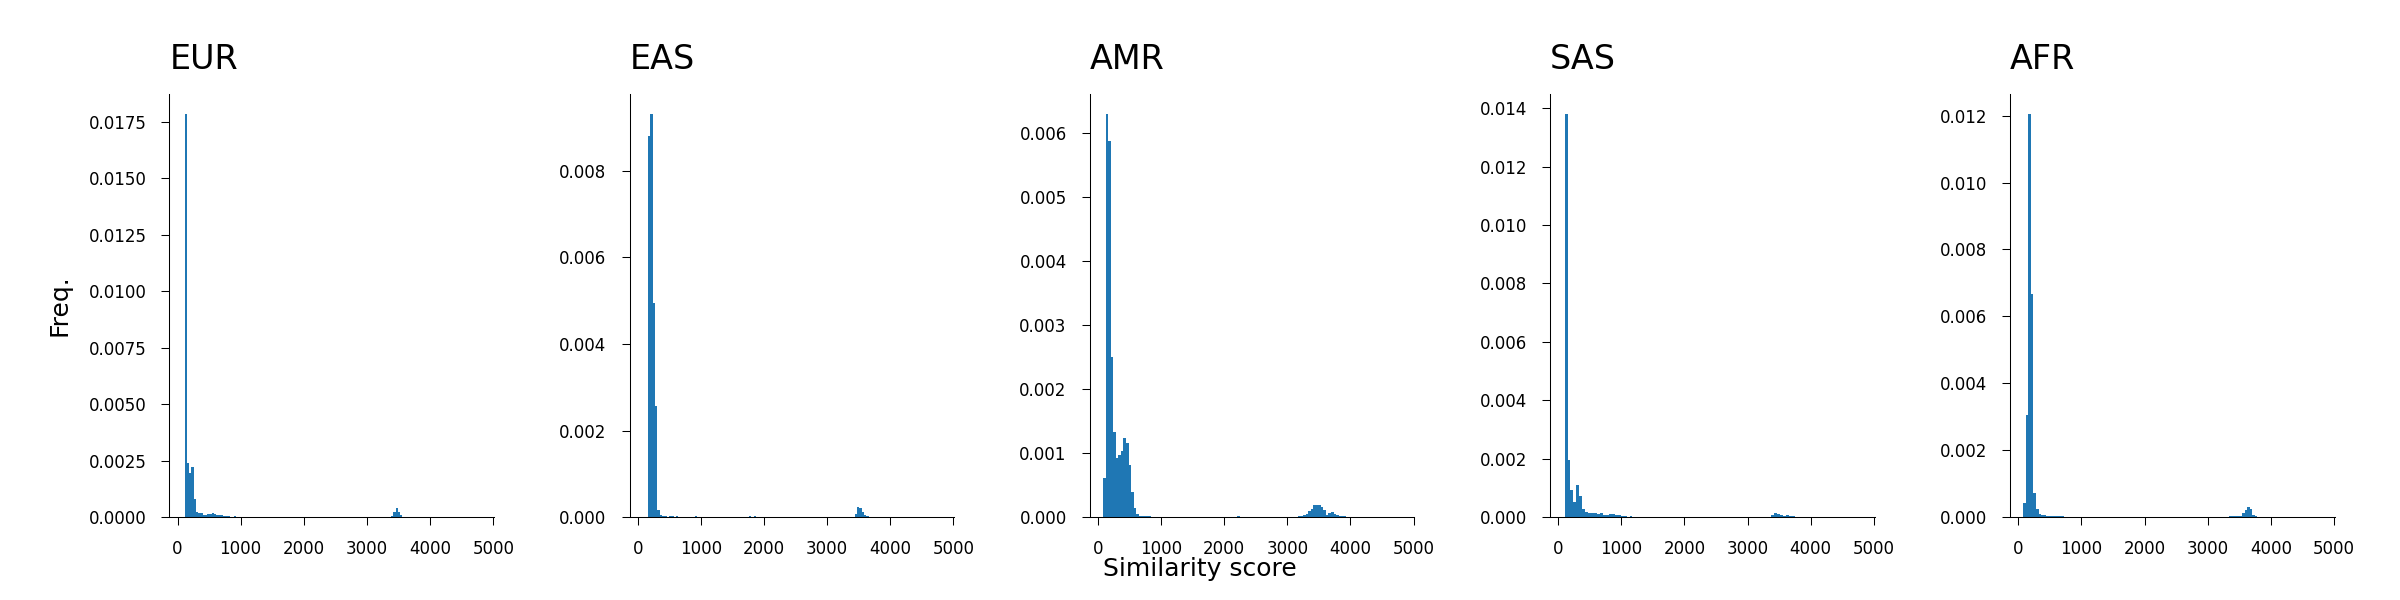
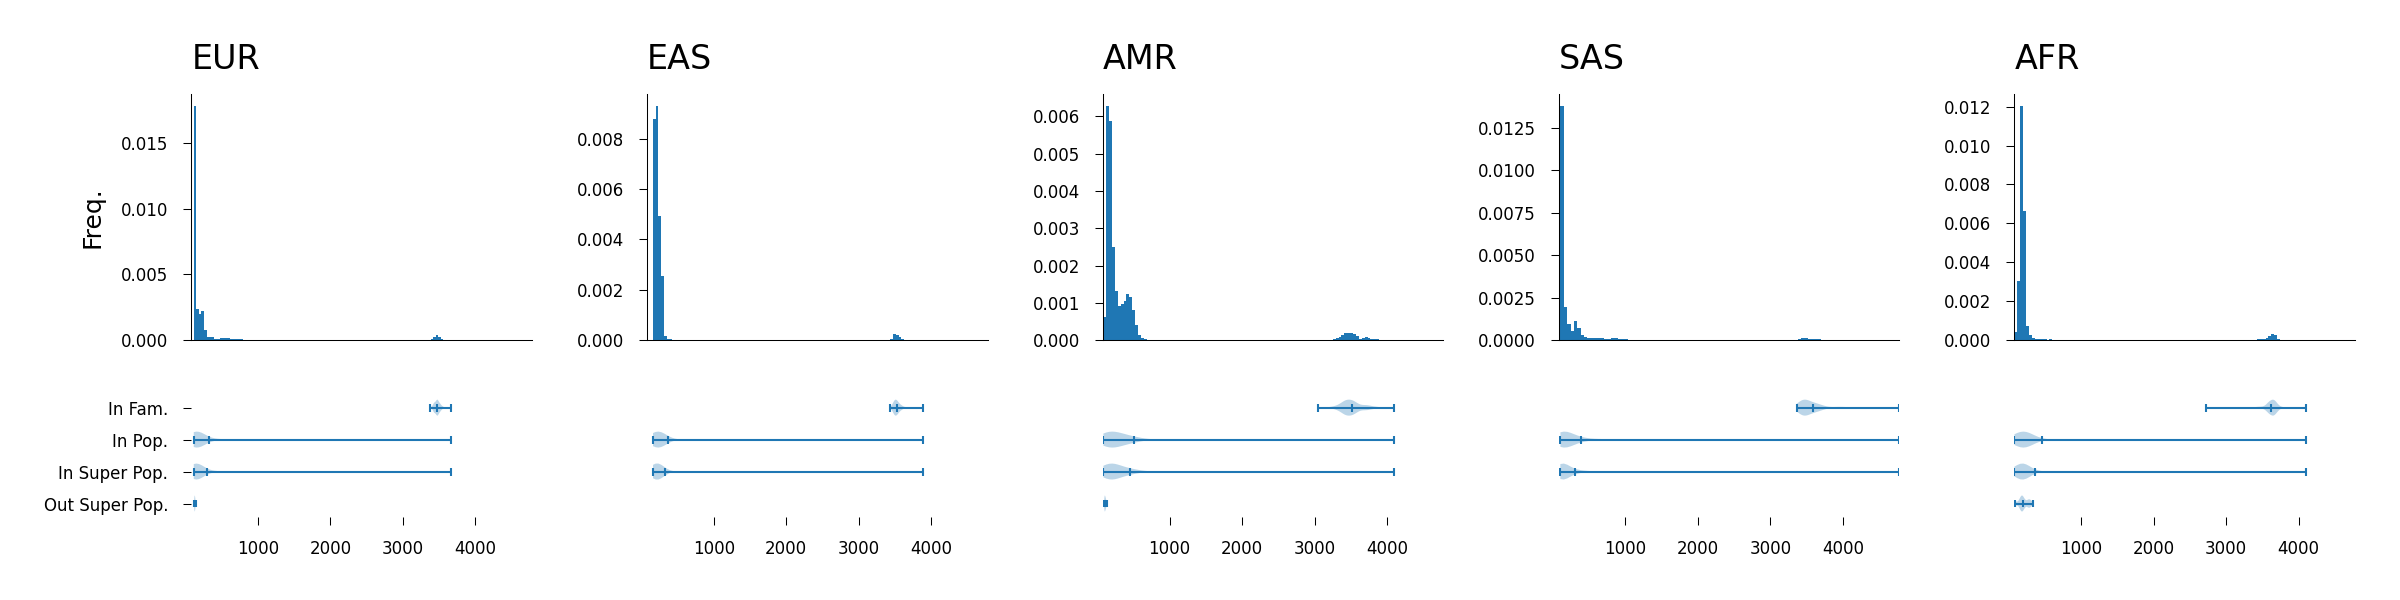
add top k score distro

diff --git a/plotting/plot_topk_score_distro.py b/plotting/plot_topk_score_distro.py
@@ -12,8 +12,10 @@ def get_args():
     parser.add_argument('--topk_file', type=str, required=True)
     parser.add_argument('--label_file', type=str, required=True)
     parser.add_argument('--out_file', type=str, required=True)
+    parser.add_argument('--ped_file', type=str)
     parser.add_argument('--width', type=float, default=10.0)
     parser.add_argument('--height', type=float, default=5.0)
+    parser.add_argument('--max_x', type=int)
     parser.add_argument('--bins', type=int, default=50)
     parser.add_argument('--log', action='store_true')
     return parser.parse_args()
@@ -27,35 +29,96 @@ def main():
     pop_map = utils.get_label_map(args.label_file, 'Population code')
     spop_map = utils.get_label_map(args.label_file, 'Superpopulation code')
 
+    related = utils.get_related_map(args.ped_file)
+
     D = {}
 
+    P = {}
+    values = []
     for i in top_k:
-        spop = spop_map[i]
-        if spop not in D:
-            D[spop] = []
+        i_spop = spop_map[i]
+        i_pop = pop_map[i]
+
+        if ',' in i_spop: continue
+
+        if i_spop not in D:
+            D[i_spop] = []
+
+
+        if i_spop not in P:
+            P[i_spop] = {}
+            P[i_spop]['out_spop'] = []
+            P[i_spop]['in_pop'] = []
+            P[i_spop]['in_spop'] = []
+            P[i_spop]['in_fam'] = []
 
         for j, value in top_k[i]:
             if i == j: continue
-            D[spop].append(value)
+            j_spop = spop_map[j]
+            j_pop = pop_map[j]
+
+            if ','in j_spop: continue
+
+            D[i_spop].append(value)
+
+            values.append(value)
+
+            if j_spop != i_spop:
+                #print(i_spop, j_spop, value)
+                P[i_spop]['out_spop'].append(value)
+            else:
+                P[i_spop]['in_spop'].append(value)
+
+            if j_pop == i_pop:
+                P[i_spop]['in_pop'].append(value)
+
+            if i in related and  j in related[i]:
+                P[i_spop]['in_fam'].append(value)
 
     spops = ['EUR', 'EAS', 'AMR', 'SAS', 'AFR']
+    samples = ['out_spop', 'in_spop', 'in_pop','in_fam']
+    pretty_names = ['Out Super Pop.', 'In Super Pop.', 'In Pop.', 'In Fam.']
 
-    fig, axs = plt.subplots(1, len(spops), figsize=(args.width, args.height))
+    fig, axs = plt.subplots(2,
+                            len(spops),
+                            figsize=(args.width, args.height),
+                            height_ratios=[2,1])
+
+    fig.subplots_adjust(hspace=0.1)
+
+    ax_i = 0
+    for spop in spops:
+        data = []
+        for sample in samples:
+            if len(P[spop][sample]) == 0:
+                data.append([0])
+            else:
+                data.append(P[spop][sample])
+        vp = axs[1][ax_i].violinplot(data,
+                                     showmeans=True,
+                                     vert=False)
+        for partname in ('cbars', 'cmins', 'cmaxes', 'cmeans'):
+            vp_part = vp[partname]
+            vp_part.set_linewidth(0.5)
+        ax_i += 1
 
     for i in range(len(spops)):
         spop = spops[i]
-        axs[i].set_title(spop, fontsize=8, loc='left')
-        axs[i].hist(D[spop], bins=args.bins, density=True)
+        axs[0][i].set_title(spop, fontsize=8, loc='left')
+        axs[0][i].hist(D[spop], bins=args.bins, density=True)
 
-    max_y = max([ax.get_ylim()[1] for ax in axs])
-    min_y = min([ax.get_ylim()[0] for ax in axs])
+    #max_y = max([axs[1].get_ylim() for ax in axs])
+    #min_y = min([axs[1].get_ylim()[0] for ax in axs])
 
-    max_x = max([ax.get_xlim()[1] for ax in axs])
-    min_x = min([ax.get_xlim()[0] for ax in axs])
+    #max_x = max([axs[1].get_xlim()[1] for ax in axs])
+    #min_x = min([axs[1].get_xlim()[0] for ax in axs])
 
-    for ax in axs:
+    for ax in axs[0]:
         #ax.set_ylim((0,30))
-        ax.set_xlim((min_x,max_x))
+        if args.max_x is None:
+            ax.set_xlim(min(values), max(values))
+        else:
+            ax.set_xlim(min(values), args.max_x)
         ax.spines['top'].set_visible(False)
         ax.spines['right'].set_visible(False)
         ax.tick_params(axis='both',
@@ -65,13 +128,35 @@ def main():
                        length=2)
         ax.spines['bottom'].set_linewidth(0.25)
         ax.spines['left'].set_linewidth(0.25)
+        ax.set_xticks([])
         if args.log: ax.set_yscale('log')
 
-    axs[0].set_ylabel('Freq.', fontsize=6)
+    axs[0][0].set_ylabel('Freq.', fontsize=6)
 
-    fig.text(0.5, 0.04, 'Similarity score', ha='center', fontsize=6)
+    for i in range(len(axs[1])):
+        ax = axs[1][i]
+        if i == 0:
+            ax.set_yticks(range(1, len(samples)+1))
+            ax.set_yticklabels(pretty_names)
+        else:
+            ax.set_yticks([])
+
+        if args.max_x is None:
+            ax.set_xlim(min(values), max(values))
+        else:
+            ax.set_xlim(min(values), args.max_x)
+        ax.spines['top'].set_visible(False)
+        ax.spines['bottom'].set_visible(False)
+        ax.spines['left'].set_visible(False)
+        ax.spines['right'].set_visible(False)
+        ax.tick_params(axis='both',
+                       which='major',
+                       labelsize=4,
+                       width=0.25,
+                       length=2)
 
 
+#    fig.text(0.5, 0.04, 'Similarity score', ha='center', fontsize=6)
         
     plt.tight_layout()
     plt.savefig(args.out_file, dpi=300)

diff --git a/plotting/plot_distros.py b/plotting/plot_distros.py
@@ -30,30 +30,6 @@ def add_outlier(O, spop, group, value, i, j, outlier):
         if value >= outlier:
             O[spop][group].append((i,j))
 
-def get_related_map(ped_file):
-    if ped_file is None: return None
-
-    related = {}
-    
-    with open(ped_file) as lines:
-        for line in lines:
-            sid, fid, mid, sex = line.rstrip().split()
-            if fid != '0':
-                if sid not in related:
-                    related[sid] = {}
-                if fid not in related:
-                    related[fid] = {}
-                related[sid][fid] = 1
-                related[fid][sid] = 1
-            if mid != '0':
-                if sid not in related:
-                    related[sid] = {}
-                if mid not in related:
-                    related[mid] = {}
-                related[sid][mid] = 1
-                related[mid][sid] = 1
-    return related
-
 def summarize_related(O, spop, group, related):
     are_related = 0
     not_related = 0
@@ -74,7 +50,7 @@ def main():
     pop_map = utils.get_label_map(args.label_file, 'Population code')
     spop_map = utils.get_label_map(args.label_file, 'Superpopulation code')
 
-    related = get_related_map(args.ped_file)
+    related = utils.get_related_map(args.ped_file)
 
     D = {}
     O = {}

diff --git a/plotting/utils.py b/plotting/utils.py
@@ -1,6 +1,30 @@
 from scipy.stats import gaussian_kde
 import numpy as np
 
+def get_related_map(ped_file):
+    if ped_file is None: return None
+
+    related = {}
+    
+    with open(ped_file) as lines:
+        for line in lines:
+            sid, fid, mid, sex = line.rstrip().split()
+            if fid != '0':
+                if sid not in related:
+                    related[sid] = {}
+                if fid not in related:
+                    related[fid] = {}
+                related[sid][fid] = 1
+                related[fid][sid] = 1
+            if mid != '0':
+                if sid not in related:
+                    related[sid] = {}
+                if mid not in related:
+                    related[mid] = {}
+                related[sid][mid] = 1
+                related[mid][sid] = 1
+    return related
+
 def get_top_hits(file, integerize=False, get_scores=False):
     str_hits = {}
     ids = {}

diff --git a/README.md b/README.md
@@ -312,6 +312,7 @@ python plotting/plot_topk_score_distro.py \
     --height 2 \
     --width 8 \
     --bins 100 \
+    --ped_file data/1kGP.3202_samples.pedigree_info.txt
 
 python plotting/plot_topk_score_distro.py \
     --topk_file data/1kg_chr1-22_top_hits.txt \
@@ -320,6 +321,7 @@ python plotting/plot_topk_score_distro.py \
     --height 2 \
     --width 8 \
     --bins 100 \
+    --ped_file data/1kGP.3202_samples.pedigree_info.txt \
     --log
 ```
 
